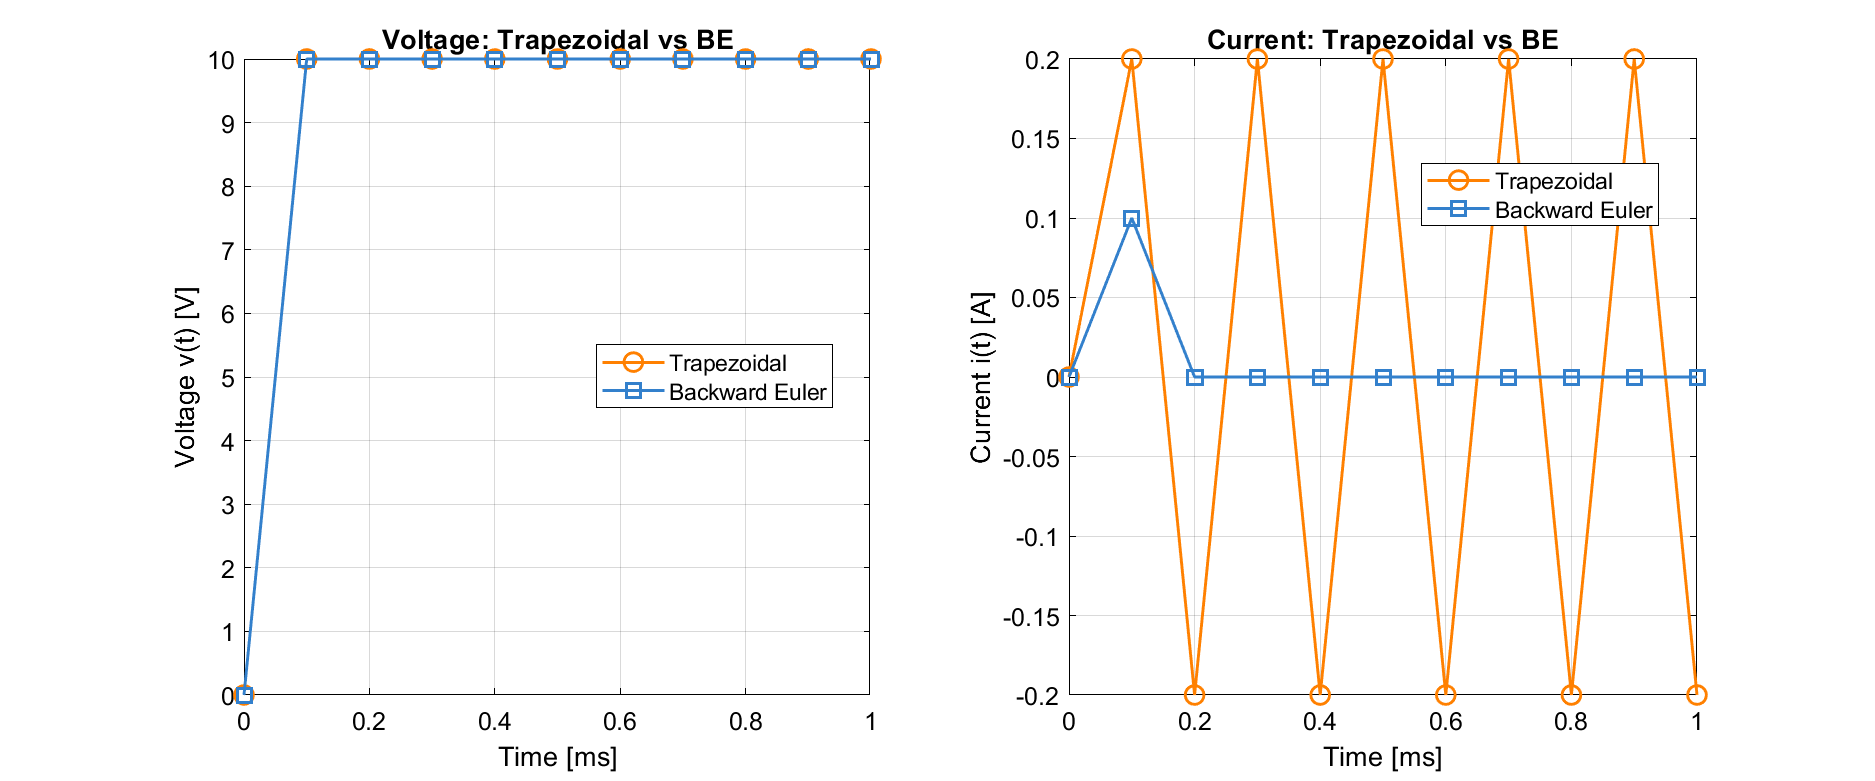
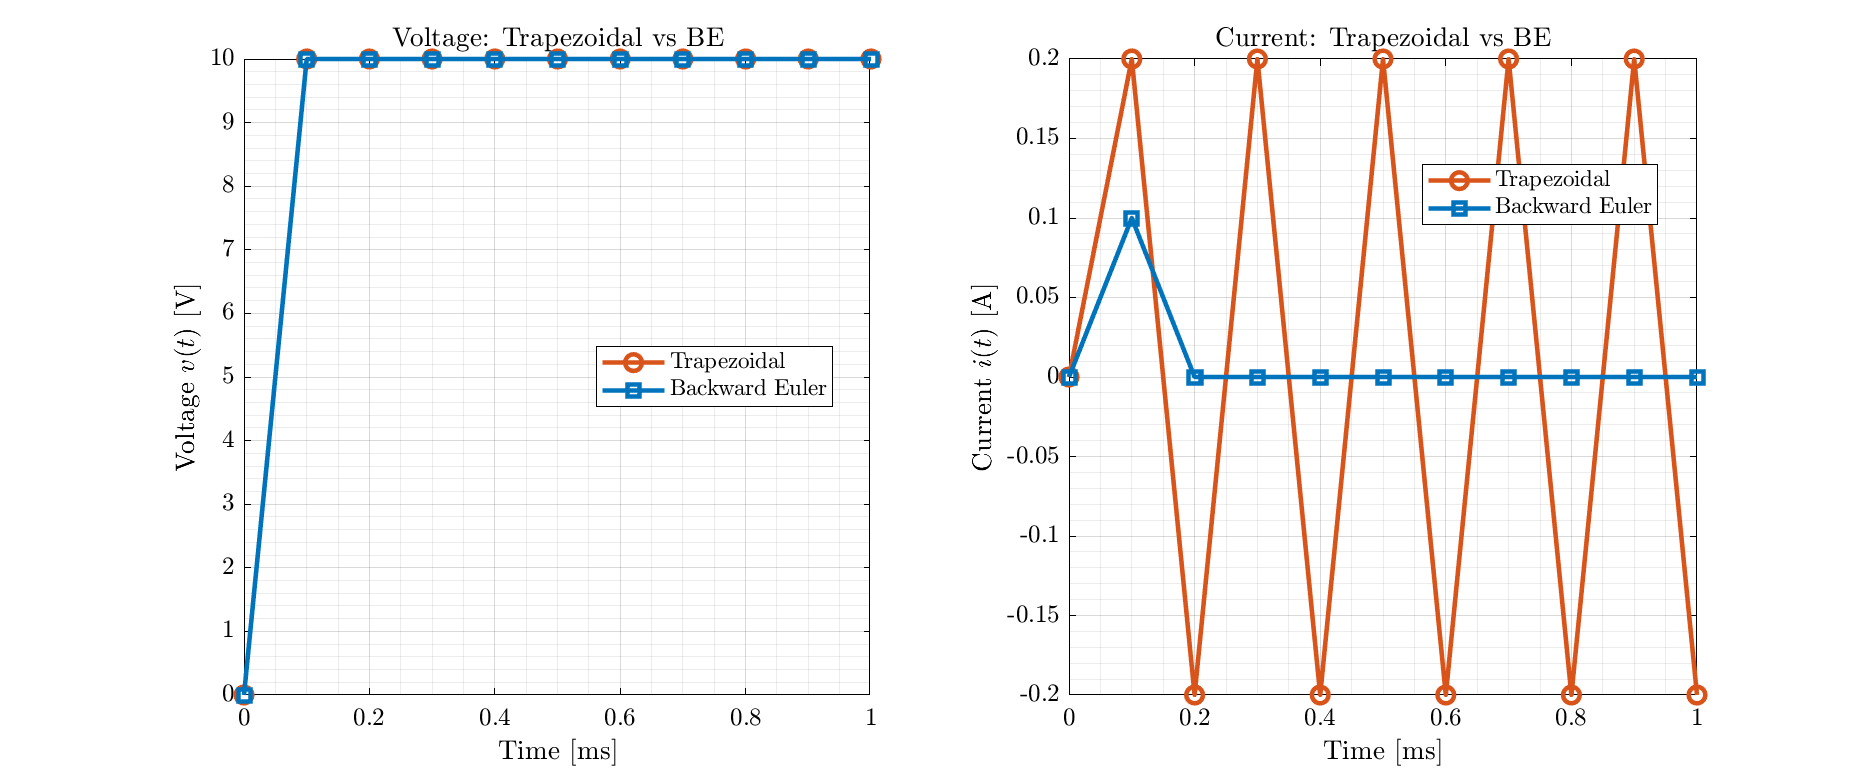
good

diff --git a/ee582/src_Hw02/hw02_qA1.m b/ee582/src_Hw02/hw02_qA1.m
@@ -11,10 +11,19 @@ set(groot,'defaultAxesTitleFontWeight','bold');
 set(groot,'defaultAxesTitleFontSizeMultiplier',1.1);
 set(groot,'defaultAxesXMinorGrid','on');
 set(groot,'defaultAxesYMinorGrid','on');
-set(groot,'defaultLineLineWidth',1.4);
-set(groot,'defaultLineMarkerSize',9);
+set(groot,'defaultLineLineWidth',2.2);
+set(groot,'defaultLineMarkerSize',8);
 set(groot, 'defaultLegendColor', 'w');      % White background for all legends
 set(groot, 'defaultLegendTextColor', 'k');  % Black text for all legends
+
+% LaTeX interpreter for all text
+set(groot,'defaultTextInterpreter','latex');
+set(groot,'defaultAxesTickLabelInterpreter','latex');
+set(groot,'defaultLegendInterpreter','latex');
+
+% Superior color palette
+color_trapz = [0.85, 0.33, 0.10];  % Burnt Orange (sophisticated)
+color_BE = [0.00, 0.45, 0.74];     % Deep Blue (rich, professional)
 
 % --- Setup ---
 T_horizon_s = 1e-3;
@@ -164,30 +173,42 @@ fig1 = figure('Name', 'Trapezoidal vs Backward Euler', 'Position', [100 100 1200
 % Voltage comparison
 subplot(1,2,1);
 ax1 = gca;
-plot(t*1e3, v_trapz, 'o-', 'DisplayName', 'Trapezoidal', 'Color', [1 0.5 0]);
+plot(t*1e3, v_trapz, 'o-', 'DisplayName', 'Trapezoidal', 'Color', color_trapz, 'LineWidth', 2.2);
 hold on;
-plot(t*1e3, v_BE, 's-', 'DisplayName', 'Backward Euler', 'Color', [0.2 0.5 0.8]);
+plot(t*1e3, v_BE, 's-', 'DisplayName', 'Backward Euler', 'Color', color_BE, 'LineWidth', 2.2);
 grid on;
-xlabel('Time [ms]', 'Color', 'k');
-ylabel('Voltage v(t) [V]', 'Color', 'k');
-title('Voltage: Trapezoidal vs BE', 'Color', 'k');
-legend('Location', 'best');
+xlabel('Time [ms]', 'Interpreter', 'latex');
+ylabel('Voltage $v(t)$ [V]', 'Interpreter', 'latex');
+title('Voltage: Trapezoidal vs BE', 'Interpreter', 'latex');
+legend('Location', 'best', 'Interpreter', 'latex');
 xlim([0 T_horizon_s*1e3]);
-set(ax1, 'XColor', 'k', 'YColor', 'k', 'Color', 'w');
+set(ax1, 'XColor', 'k', 'YColor', 'k', 'Color', 'w', 'TickLabelInterpreter', 'latex');
+% Explicit minor grid settings
+ax1.XMinorGrid = 'on';
+ax1.YMinorGrid = 'on';
+ax1.MinorGridLineStyle = '-';
+ax1.MinorGridAlpha = 0.15;
+ax1.MinorGridColor = [0.5 0.5 0.5];
 
 % Current comparison
 subplot(1,2,2);
 ax2 = gca;
-plot(t*1e3, i_trapz, 'o-', 'DisplayName', 'Trapezoidal', 'Color', [1 0.5 0]);
+plot(t*1e3, i_trapz, 'o-', 'DisplayName', 'Trapezoidal', 'Color', color_trapz, 'LineWidth', 2.2);
 hold on;
-plot(t*1e3, i_BE, 's-', 'DisplayName', 'Backward Euler', 'Color', [0.2 0.5 0.8]);
+plot(t*1e3, i_BE, 's-', 'DisplayName', 'Backward Euler', 'Color', color_BE, 'LineWidth', 2.2);
 grid on;
-xlabel('Time [ms]', 'Color', 'k');
-ylabel('Current i(t) [A]', 'Color', 'k');
-title('Current: Trapezoidal vs BE', 'Color', 'k');
-legend('Location', 'best');
+xlabel('Time [ms]', 'Interpreter', 'latex');
+ylabel('Current $i(t)$ [A]', 'Interpreter', 'latex');
+title('Current: Trapezoidal vs BE', 'Interpreter', 'latex');
+legend('Location', 'best', 'Interpreter', 'latex');
 xlim([0 T_horizon_s*1e3]);
-set(ax2, 'XColor', 'k', 'YColor', 'k', 'Color', 'w');
+set(ax2, 'XColor', 'k', 'YColor', 'k', 'Color', 'w', 'TickLabelInterpreter', 'latex');
+% Explicit minor grid settings
+ax2.XMinorGrid = 'on';
+ax2.YMinorGrid = 'on';
+ax2.MinorGridLineStyle = '-';
+ax2.MinorGridAlpha = 0.15;
+ax2.MinorGridColor = [0.5 0.5 0.5];
 
 % %% ===================== Plot: Forward Euler (Separate) =====================
 % fig2 = figure('Name', 'Forward Euler Method', 'Position', [150 150 1200 500], 'Color', 'w');
